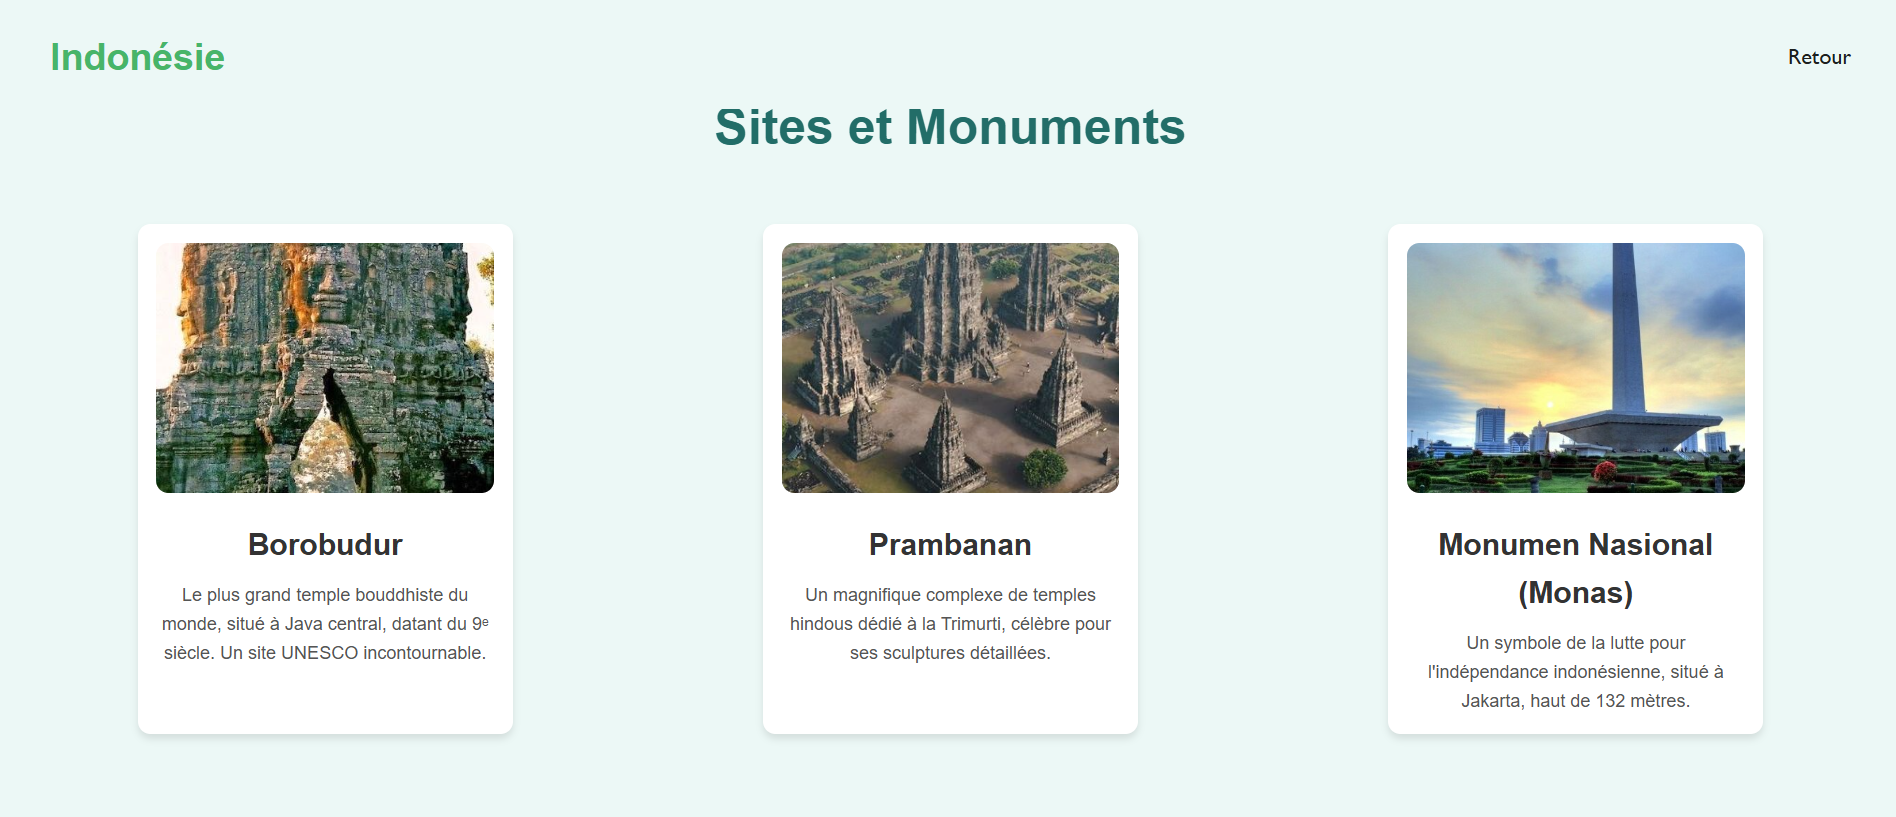
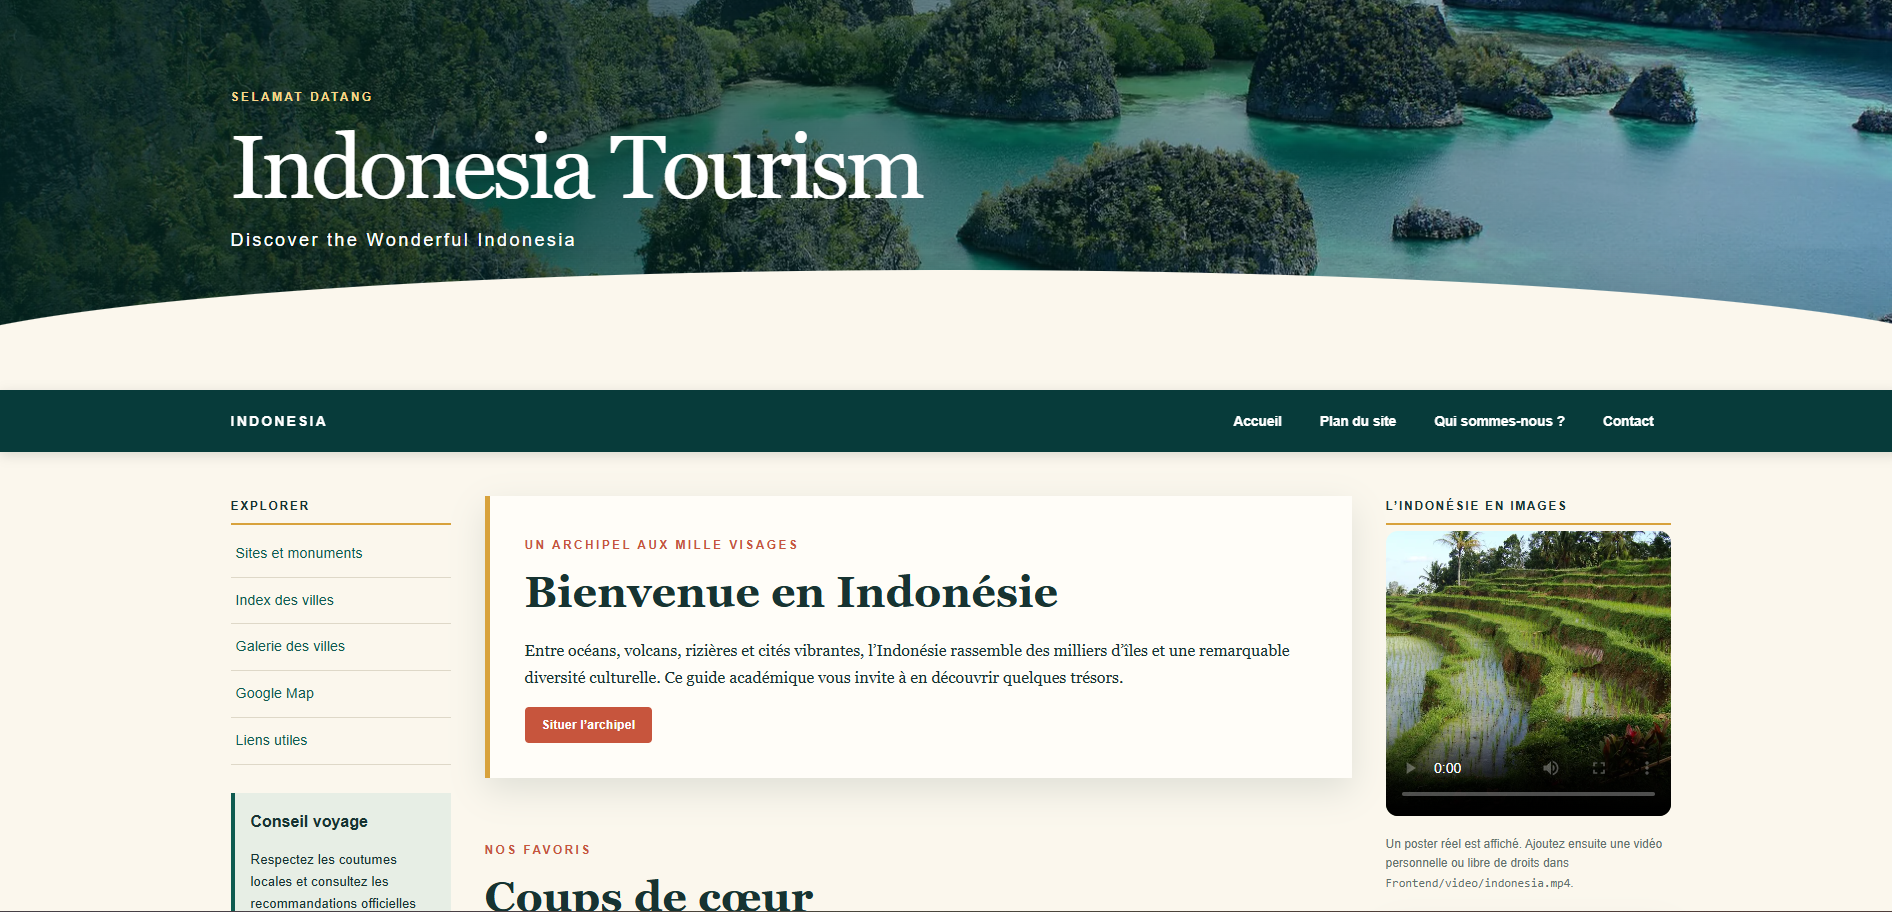
add project

diff --git a/data/projects.ts b/data/projects.ts
@@ -99,7 +99,7 @@ The website includes:
 The project focuses on front-end structure, responsive design, and dynamic interaction using JavaScript.
     `,
     technologies: ["HTML", "CSS", "JavaScript", "PHP"],
-    github: "https://github.com/Elghbali01",
+    github: "https://github.com/Elghbali01/IndonesiaTourismWebsite.git",
     image: "/indonesia.png",
     featured: false,
   },
